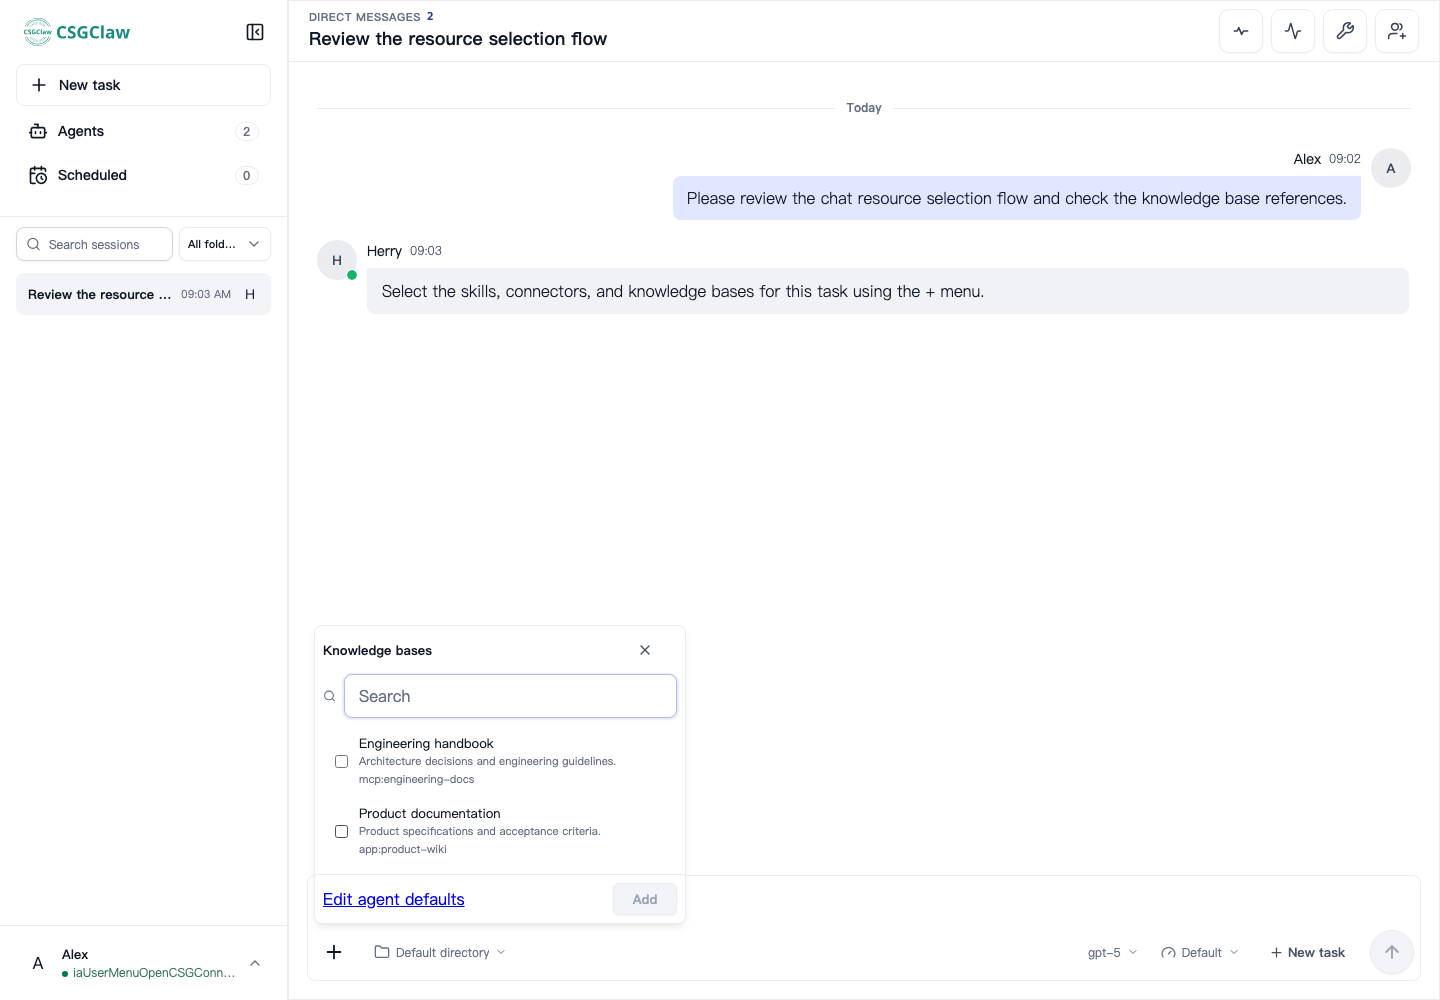
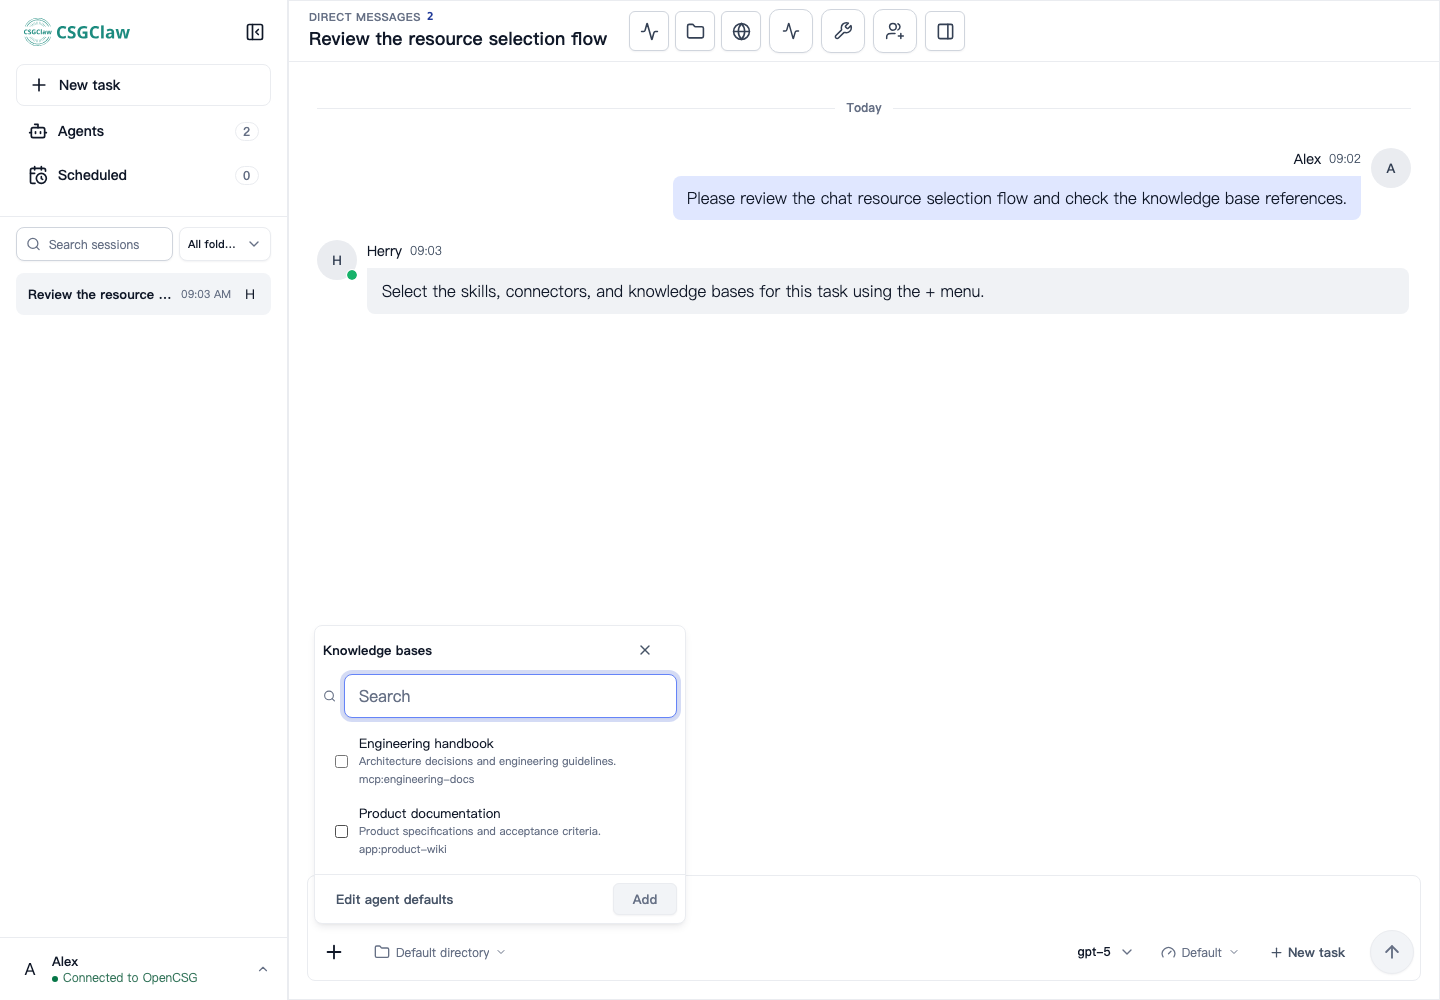
docs: refresh chat resource selection screenshots

diff --git a/README.md b/README.md
@@ -1,5 +1,20 @@
 # PR 686 UI screenshots
 
-Captured from OpenCSGs/csgclaw commit a542f0d38bc51375cd5a9b2122457e02ed885d9a on October 19, 2026.
+Captured on October 19, 2026 from `72a7869a1673c2c8a2f94d99c84e75cbf7ac516a`, after merging main (`f5c1aa53`).
 
-The browser loads the production Vite build with API fixture data for agents, messages, and resources. Desktop screenshots use 1440 x 1000; the mobile screenshot uses 390 x 844. These screenshots document the implemented UI. Real Codex/DSH tool execution is not part of this screenshot fixture.
+Production Vite build with API fixture data; desktop 1440 × 1000 and mobile 390 × 844. Browser checks cover resource menus, search, unavailable entries, ordered Skill/MCP/App/knowledge-base references, message history, slash suggestions, and task entry.
+
+Real Codex and DSH provider/tool execution is separate draft validation.
+
+Source PR: https://github.com/OpenCSGs/csgclaw/pull/686
+
+- [01-add-menu.png](01-add-menu.png)
+- [02-skills-picker.png](02-skills-picker.png)
+- [02b-skills-search.png](02b-skills-search.png)
+- [03-connectors-picker.png](03-connectors-picker.png)
+- [04-knowledge-picker.png](04-knowledge-picker.png)
+- [05-selected-resources.png](05-selected-resources.png)
+- [06-message-history.png](06-message-history.png)
+- [07-slash-selection.png](07-slash-selection.png)
+- [08-new-task.png](08-new-task.png)
+- [09-mobile-picker.png](09-mobile-picker.png)
